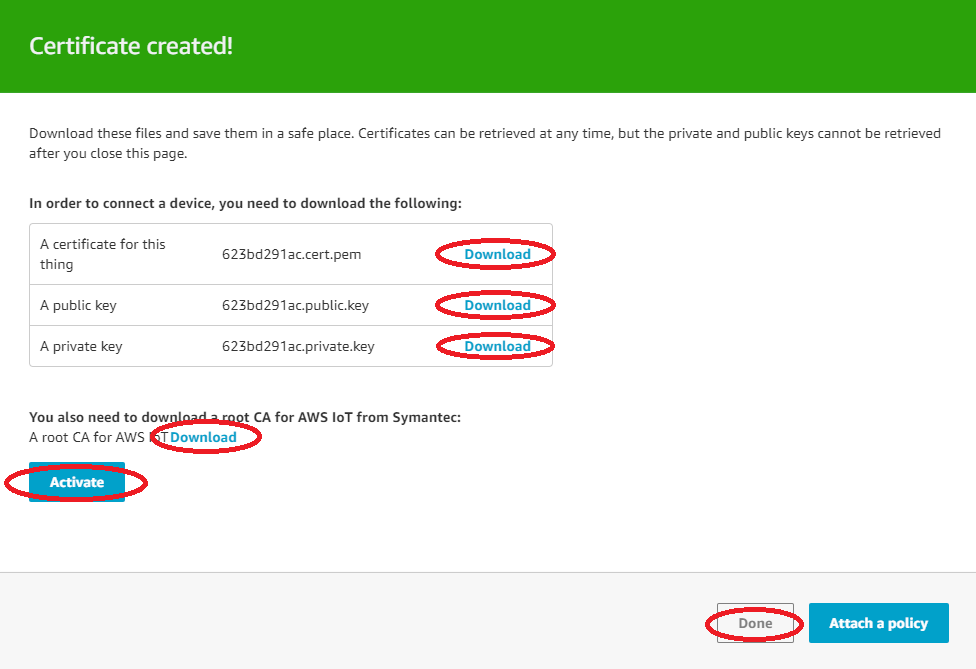
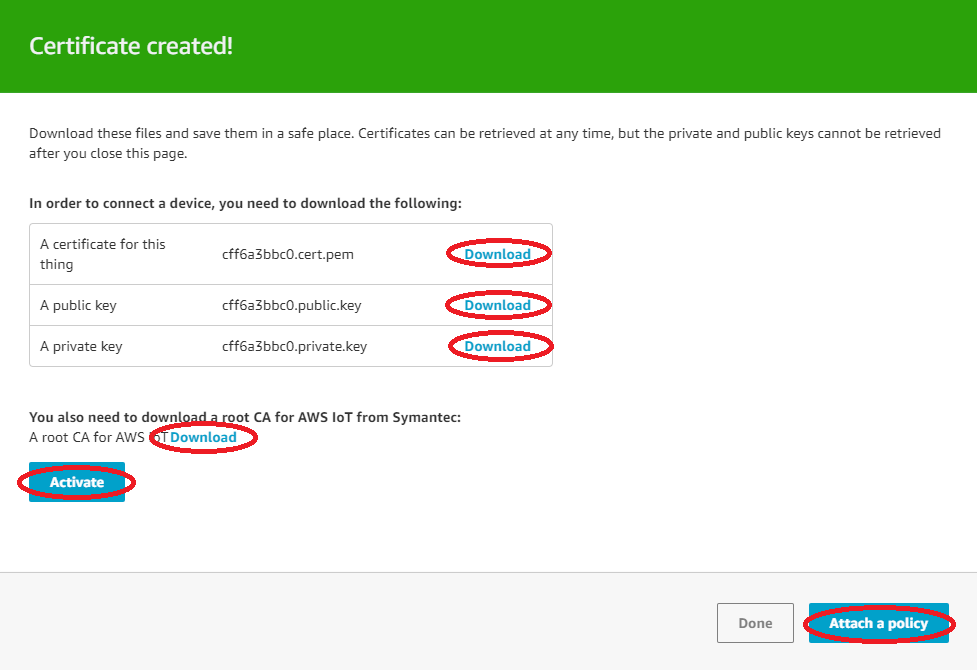
More AWS MQTT diagrams

diff --git a/chapter/tutorials/all/aws.md b/chapter/tutorials/all/aws.md
@@ -15,14 +15,17 @@ For more information see this [PDF File](http://docs.aws.amazon.com/iot/latest/d
 - Click on the device that has been created
 - On the Details page, in the left navigation pane, choose <a href="../../../img/aws-4.png" target="_blank">Security</a>
 - On the Certificates page, choose Create certificate
-- Download the device certificates, then press the activate and done buttons. <a href="../../../img/aws-5.png" target="_blank">See image</a> 
+- Download all the certificates, then press the Activate and the Attach a Policy buttons. <a href="../../../img/aws-5.png" target="_blank">See image</a> 
+- Click on the Create New Policy button 
+- On the <a href="../../../img/aws-6.png" target="_blank">Create Policy</a> page, choose a policy name and the actions to authorize.
+- Go to the certificates page, click on the three dots of your certificate and attach the policy to the certificate as shown in the <a href="../../../img/aws-7.png" target="_blank">diagram</a>
 
 ### Setting up the device (Pycom device):
 
-- Download the lastest AWS SDK and sample code from the Pycom [GitHub Repository](https://github.com/pycom/pycom-libraries/tree/master/examples/aws).
-- Connect to the device via ftp and put the AWSIoTPythonSDK folder in the device flash
-- Put the downloaded certificates in the certs directory
-- Use Atom or visual studio blocks to create the desired MQTT communication. Sample code of publishing, shadow updater and delta listener are given below.
+- Download the latest sample code from the Pycom [GitHub Repository](https://github.com/pycom/aws-pycom).
+- Connect to the device via ftp and put the root CA certificate, the client certificate (*.pem.crt) and the private key (*.private.pem.key) in the /flash/cert folder.
+- Update the config file with your wifi settings, the <a href="../../../img/aws-8.png" target="_blank">AWS Host</a> and the certificate paths. 
+- Put the config.py and the main.py in the device flash
 
 ### Configuration (config.py):
 
@@ -30,17 +33,17 @@ This file contains the wifi, certificate paths and application specific settings
 
 ```python
 # wifi configuration
-WIFI_SSID = 'my wifi ssid'
-WIFI_PASS = 'my wifi password'
+WIFI_SSID = 'my_wifi_ssid'
+WIFI_PASS = 'my_wifi_password'
 
 # AWS general configuration
 AWS_PORT = 8883
-AWS_HOST = 'aws host'
-AWS_ROOT_CA = '/flash/cert/aws root CA'
-AWS_PUBLIC_KEY = '/flash/cert/aws public key'
-AWS_PRIVATE_KEY = '/flash/cert/aws private key'
+AWS_HOST = 'aws_host_url'
+AWS_ROOT_CA = '/flash/cert/aws_root.ca'
+AWS_CLIENT_CERT = '/flash/cert/aws_client.cert'
+AWS_PRIVATE_KEY = '/flash/cert/aws_private.key'
 
-# Subscribe / Publish client 
+################## Subscribe / Publish client #################
 CLIENT_ID = 'PycomPublishClient'
 TOPIC = 'PublishTopic'
 OFFLINE_QUEUE_SIZE = -1
@@ -50,20 +53,32 @@ MQTT_OPER_TIMEOUT = 5
 LAST_WILL_TOPIC = 'PublishTopic'
 LAST_WILL_MSG = 'To All: Last will message'
 
-# Shadow updater
+####################### Shadow updater ########################
 #THING_NAME = "my thing name"
 #CLIENT_ID = "ShadowUpdater"
 #CONN_DISCONN_TIMEOUT = 10
 #MQTT_OPER_TIMEOUT = 5
 
-# Delta Listener 
+####################### Delta Listener ########################
 #THING_NAME = "my thing name"
 #CLIENT_ID = "DeltaListener"
+#CONN_DISCONN_TIMEOUT = 10
+#MQTT_OPER_TIMEOUT = 5
+
+####################### Shadow Echo ########################
+#THING_NAME = "my thing name"
+#CLIENT_ID = "ShadowEcho"
 #CONN_DISCONN_TIMEOUT = 10
 #MQTT_OPER_TIMEOUT = 5
 ```
 
 ### Subscibe / Publish (main.py)
+
+To subsribe to a topic:
+- Go to the AWS Iot page, click on manage and choose your device 
+- From the left hand side, choose Activity and then click MQTT client. 
+- Choose the <a href="../../../img/aws-9.png" target="_blank">topic name</a> you entered in the configuration file. 
+- Messages should be published as shown in the <a href="../../../img/aws-10.png" target="_blank">diagram</a>
 
 ```python
 # user specified callback function
@@ -77,7 +92,7 @@ def customCallback(client, userdata, message):
 # configure the MQTT client
 pycomAwsMQTTClient = AWSIoTMQTTClient(config.CLIENT_ID)
 pycomAwsMQTTClient.configureEndpoint(config.AWS_HOST, config.AWS_PORT)
-pycomAwsMQTTClient.configureCredentials(config.AWS_ROOT_CA, config.AWS_PRIVATE_KEY, config.AWS_PUBLIC_KEY)
+pycomAwsMQTTClient.configureCredentials(config.AWS_ROOT_CA, config.AWS_PRIVATE_KEY, config.AWS_CLIENT_CERT)
 
 pycomAwsMQTTClient.configureOfflinePublishQueueing(config.OFFLINE_QUEUE_SIZE)
 pycomAwsMQTTClient.configureDrainingFrequency(config.DRAINING_FREQ)
@@ -126,7 +141,7 @@ def customShadowCallback_Delete(payload, responseStatus, token):
 # configure the MQTT client
 pycomAwsMQTTShadowClient = AWSIoTMQTTShadowClient(config.CLIENT_ID)
 pycomAwsMQTTShadowClient.configureEndpoint(config.AWS_HOST, config.AWS_PORT)
-pycomAwsMQTTShadowClient.configureCredentials(config.AWS_ROOT_CA, config.AWS_PRIVATE_KEY, config.AWS_PUBLIC_KEY)
+pycomAwsMQTTShadowClient.configureCredentials(config.AWS_ROOT_CA, config.AWS_PRIVATE_KEY, config.AWS_CLIENT_CERT)
 
 pycomAwsMQTTShadowClient.configureConnectDisconnectTimeout(config.CONN_DISCONN_TIMEOUT)
 pycomAwsMQTTShadowClient.configureMQTTOperationTimeout(config.MQTT_OPER_TIMEOUT)
@@ -161,7 +176,7 @@ def customShadowCallback_Delta(payload, responseStatus, token):
     # configure the MQTT client
 pycomAwsMQTTShadowClient = AWSIoTMQTTShadowClient(config.CLIENT_ID)
 pycomAwsMQTTShadowClient.configureEndpoint(config.AWS_HOST, config.AWS_PORT)
-pycomAwsMQTTShadowClient.configureCredentials(config.AWS_ROOT_CA, config.AWS_PRIVATE_KEY, config.AWS_PUBLIC_KEY)
+pycomAwsMQTTShadowClient.configureCredentials(config.AWS_ROOT_CA, config.AWS_PRIVATE_KEY, config.AWS_CLIENT_CERT)
 
 pycomAwsMQTTShadowClient.configureConnectDisconnectTimeout(config.CONN_DISCONN_TIMEOUT)
 pycomAwsMQTTShadowClient.configureMQTTOperationTimeout(config.MQTT_OPER_TIMEOUT)
